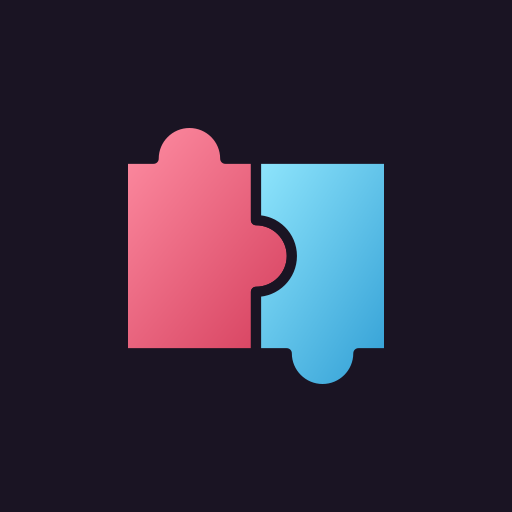
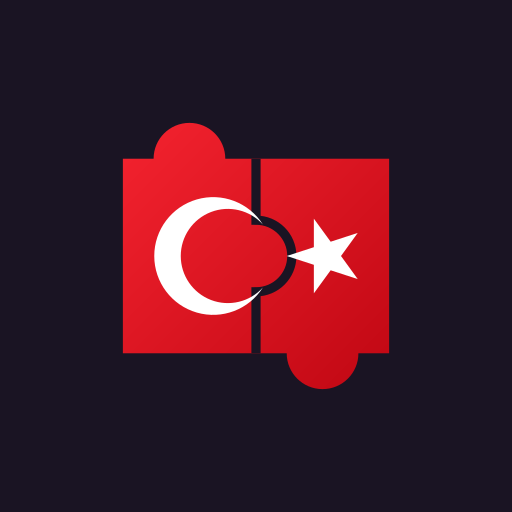
Ikon: birbirine gecmis iki parca birlesince Turk bayragi
Parca geometrisi degismedi (iki `d` aynen duruyor). Degisen: iki parca da
bayrak kirmizisi (#e30a17 cevresinde cok hafif degrade, tek gradient -
`userSpaceOnUse` oldugu icin dikisin iki yani ayni isigi aliyor) ve ustune
gelen ay-yildiz.

Ay sol parcada, yildiz sag parcada
- Bayragin kendi geometrisi bunu kendiliginden veriyor: gercek bayrakta dis
  cemberin sag ucu tam ortada biter, yildiz da sag yarida kalir. Dikis
  x=50'de oldugu icin ay solda, yildiz sagda kaliyor - parcalar ayrilinca
  bayrak da ikiye ayriliyor.

Olculer
- Turk Bayragi Kanunu'nun oranlari: dis cember G/4, ic cember G/5, yildiz
  G/6, ic cemberin merkezi distakinin 0,0625G saginda, yildizin bir ucu aya
  bakiyor. Olcek G=46; G bayragin eni degil (govde 52x38), oranlar korunup
  motif biraz iri tutuldu - 32 pikselde ay ancak boyle seciliyor.
- Motifin sinir kutusu x 30,13-69,87, ortasi tam 50. Ucu birbirine bagli;
  biri elle yuvarlanirsa hem bayrak orani hem ortalama bozulur.

Dikis
- Dis hatta kontur kalmadi: kirmizi zaten koyu zeminden ayriliyor, kontur
  koseleri torpulemekten baska is yapmiyordu. Dikis yalnizca iki parcanin
  arasina ciziliyor ve beyazin *altinda*: ustte olsa tirnagin konturu
  yildizin sol ucunu kesiyordu.

Yol boyunca cikan ayri bir hata: icon.svg hic ayristirilamiyormus
- Yorumun icinde "npx --yes" yaziyordu; XML yorumunda iki tire yan yana
  gelemiyor. Tarayici hata vermiyor, SVG favicon'u sessizce atlayip PNG'ye
[…]

Changed region(s): [[0.2188, 0.2188, 0.7812, 0.7812]]

diff --git a/public/sw.js b/public/sw.js
@@ -5,7 +5,7 @@
 // Kabuk dosyalarının içeriği aynı adla değişirse sürümü artır: activate eski
 // önbelleği siliyor. Artırılmazsa kurulu uygulama eski ikonu göstermeye devam
 // ediyor (fetch stale-while-revalidate, yani ancak bir sonraki açılışta düzelir).
-const CACHE = 'birlikte-puzzle-v2'
+const CACHE = 'birlikte-puzzle-v3'
 const SHELL = [
   './',
   './index.html',

diff --git a/CLAUDE.md b/CLAUDE.md
@@ -279,10 +279,20 @@ Kural: **kare başına yapılan iş parça sayısıyla büyümemeli.**
   yuvarlak ya da kesik köşe veriyor.
 - **Maskable ikon dairesine sığ.** Android `purpose: "maskable"` ikonu 80%
   çapında bir daireye kırpıyor; 100x100 tuvalde çizim merkezden 40 birimden
-  uzağa taşmamalı. Bugünkü çizim 38,2'de.
+  uzağa taşmamalı. Bugünkü çizim 32,2'de.
+- **`icon.svg` XML olarak ayrıştırılıyor: yorumun içinde iki tire yan yana
+  gelemez.** Yorumdaki `npx --yes ...` yüzünden dosya aylarca ayrıştırılamadı;
+  tarayıcı hata vermiyor, favicon'u sessizce göstermiyor. Dosyayı doğrudan
+  `localhost:5173/icon.svg` adresinde açıp bayrağı gör — hata sayfası çıkarsa
+  ayrıştırılamıyordur.
 - **Ortalamayı gözle değil ölçerek doğrula.** Eski ikon 512'lik karede 51
   piksel aşağı kaymıştı (üstte 112, altta 61 boşluk) ve kimse fark etmemişti.
-  Tuvale çizip zemin renginden farklı piksellerin sınır kutusuna bak.
+  Tuvale çizip zemin renginden farklı piksellerin sınır kutusuna bak; yuvarlak
+  köşeli dosyalarda **saydam pikselleri de ele** (`alpha < 200` atlanmazsa
+  sınır kutusu karonun kendisi çıkıyor, ölçüm hep "ortalı" diyor).
+- **Ay-yıldızın ölçüleri birbirine bağlı.** Üç çemberin yarıçapı ve merkezleri
+  tek bir ölçekten (`G`) türetiliyor; biri elle yuvarlanırsa hem bayrak oranı
+  hem ortalama bozulur. Değiştireceksen üçünü birden yeniden hesapla.
 - **`sw.js`: kabuk dosyası aynı adla değişirse `CACHE` sürümünü artır.**
   `activate` yalnızca *farklı* anahtarlı önbellekleri siliyor; artırmazsan
   kurulu uygulama eski dosyayı vermeye devam ediyor. Yeni bir kabuk dosyası
